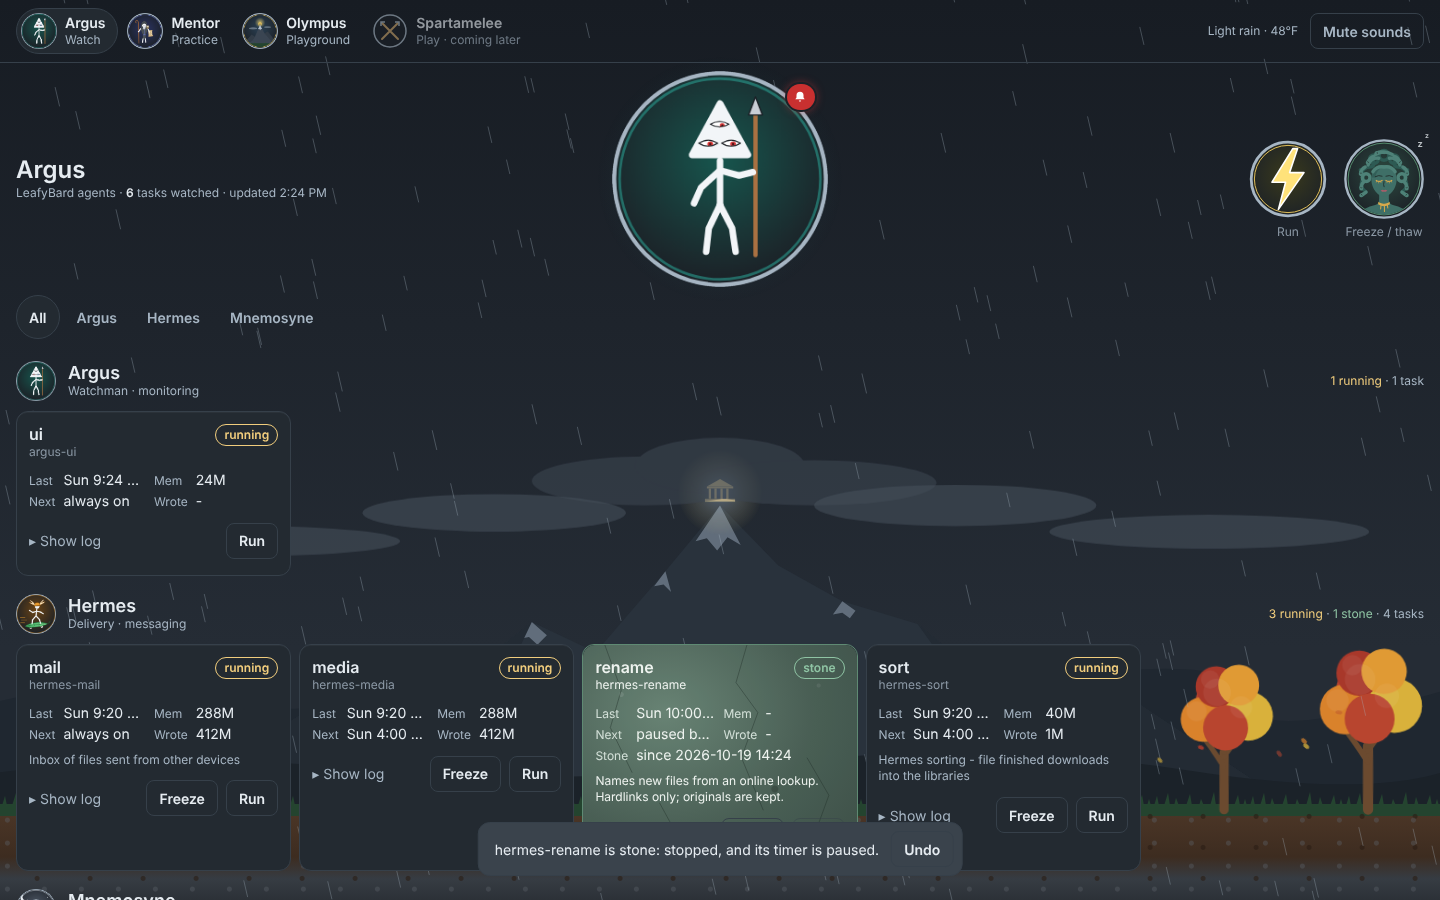
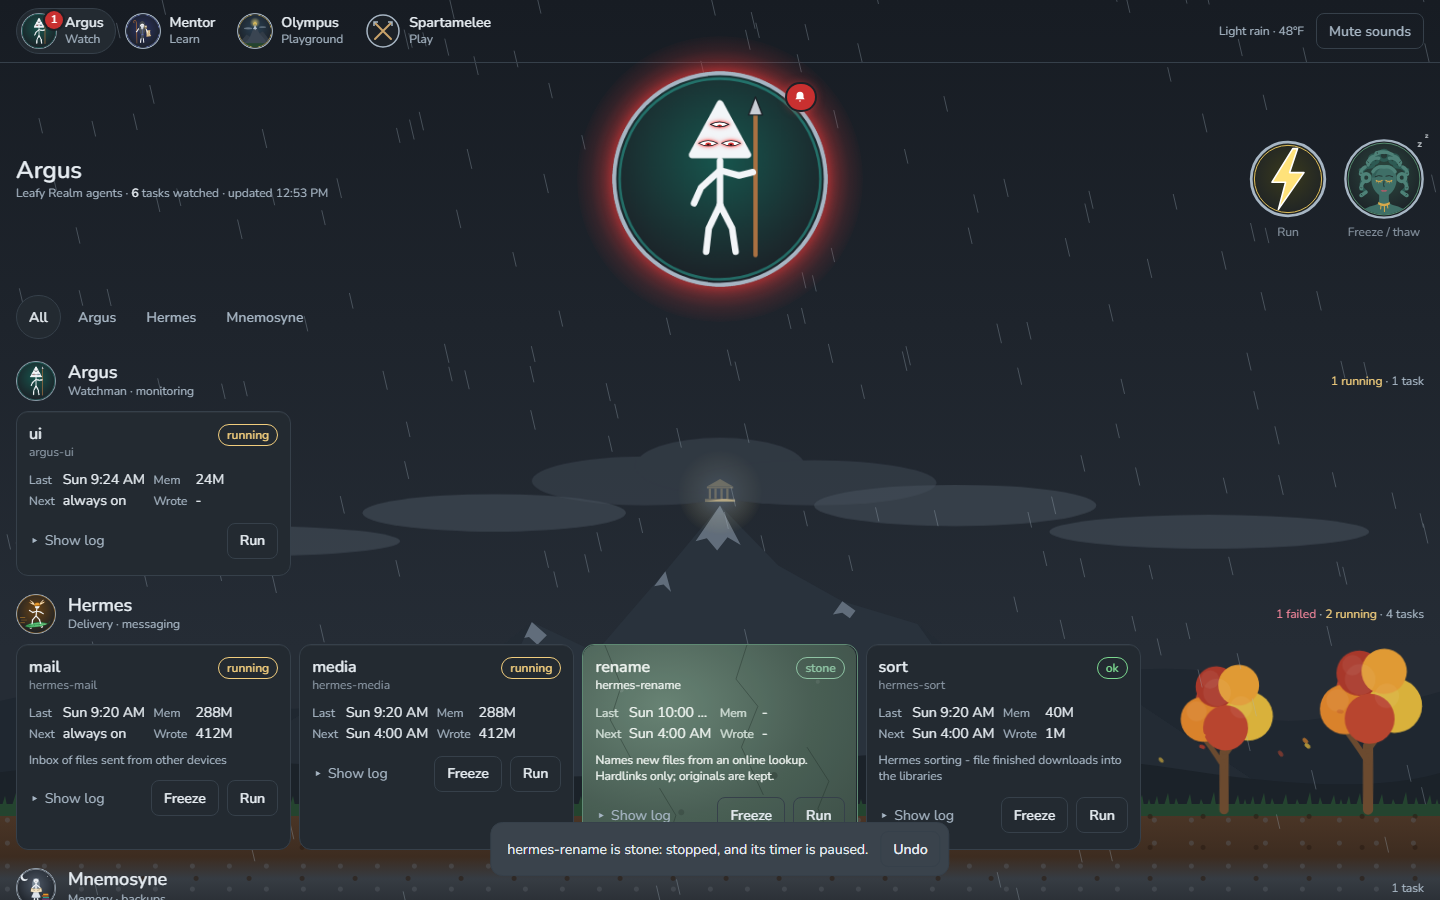
Leafy Realm theme: subtitle names the realm, not a device
The theme ships in the public repo, so it says "Leafy Realm agents".
New Watch screenshot to match.

diff --git a/CHANGELOG.md b/CHANGELOG.md
@@ -3,7 +3,7 @@
 ## 4.9.0 – 2026-10-20
 - **Placeholders in lessons.** A lesson says `{{SERVER}}`, `{{PC}}`, `{{PHONE}}`, `{{SSH}}`, `{{HOME_PC}}`, `{{HOME_SERVER}}` or `{{REPO_URL}}`, and Mentor fills them in from `~/.config/leafy/realm.json` in every field it shows (prompts, answers, hints, snippets, the Lessons view), falling back to public defaults (`homeserver`, `desktop` …). Grading compares against the filled-in text. The database keeps the placeholders, so lessons move between people unchanged and an edit to `realm.json` shows on the next card. `docs/realm.example.json`; docs/mentor.md explains the file
 - **`scripts/check-private.sh`** stops personal data reaching the public repo: home paths, `*.ts.net` names, IPv4/IPv6 addresses, emails, and every line of your own `~/.config/leafy/denylist.txt` (never committed). It checks the staged changes, a commit range (`main..HEAD`, messages included), the whole tree (`--tree`) or history (`--history`), and prints file:line. `scripts/install-hooks.sh` runs it before every push; a GitHub Actions job runs the generic checks on every pull request
-- The service worker's comment no longer names a device. CLAUDE.md: the placeholder rule, the check before every push, personal lessons never in `themes/`
+- The Leafy Realm theme's subtitle is now "Leafy Realm agents" (it named a device), with a new Watch screenshot; the service worker's comment no longer names a device. CLAUDE.md: the placeholder rule, the check before every push, personal lessons never in `themes/`
 - Tests: a lesson with `{{SERVER}}` shows the public default without `realm.json` and the `realm.json` value with it, and is graded against it
 
 ## 4.8.0 – 2026-10-20
